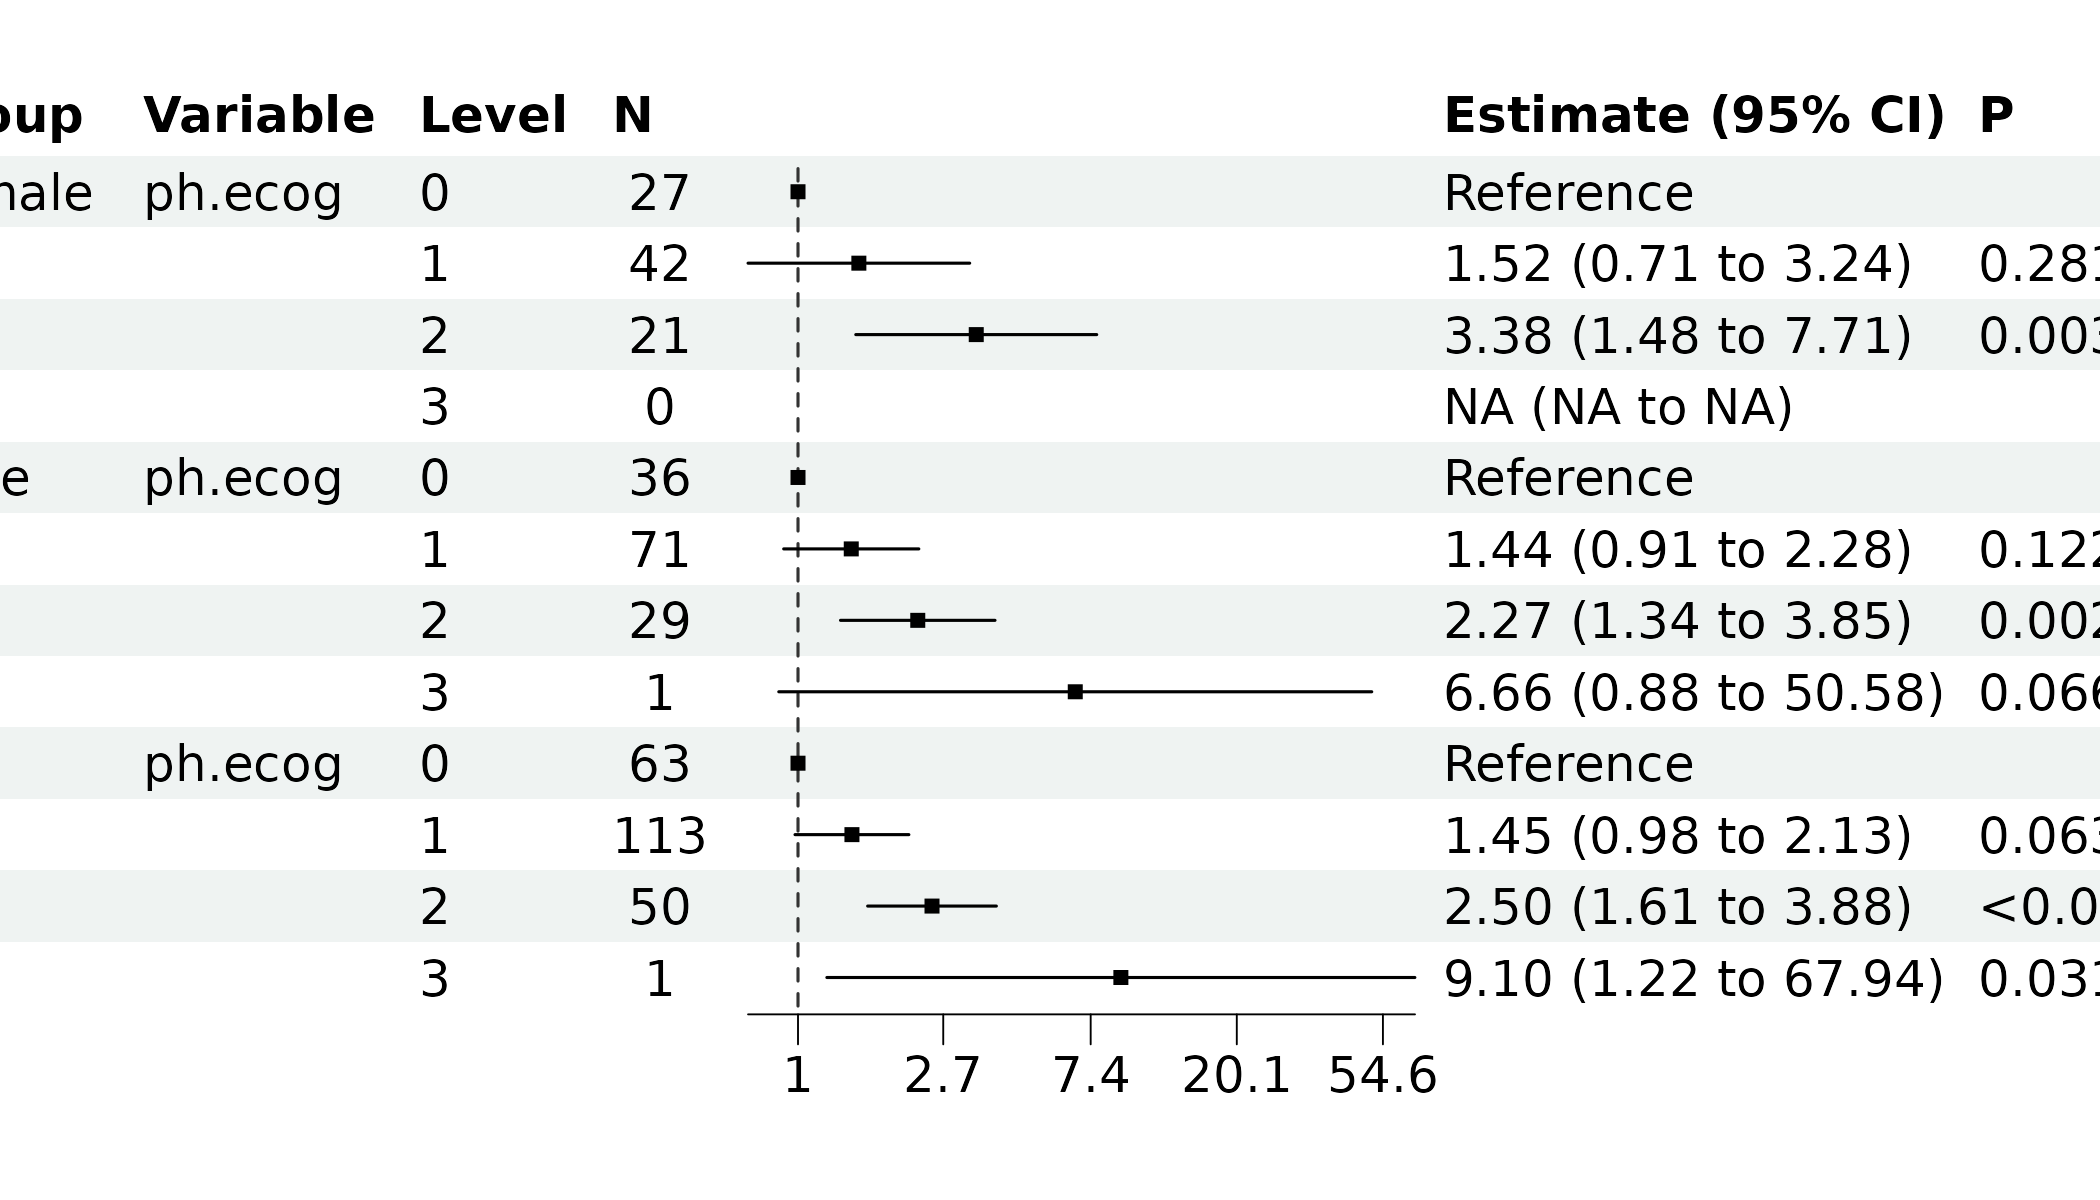
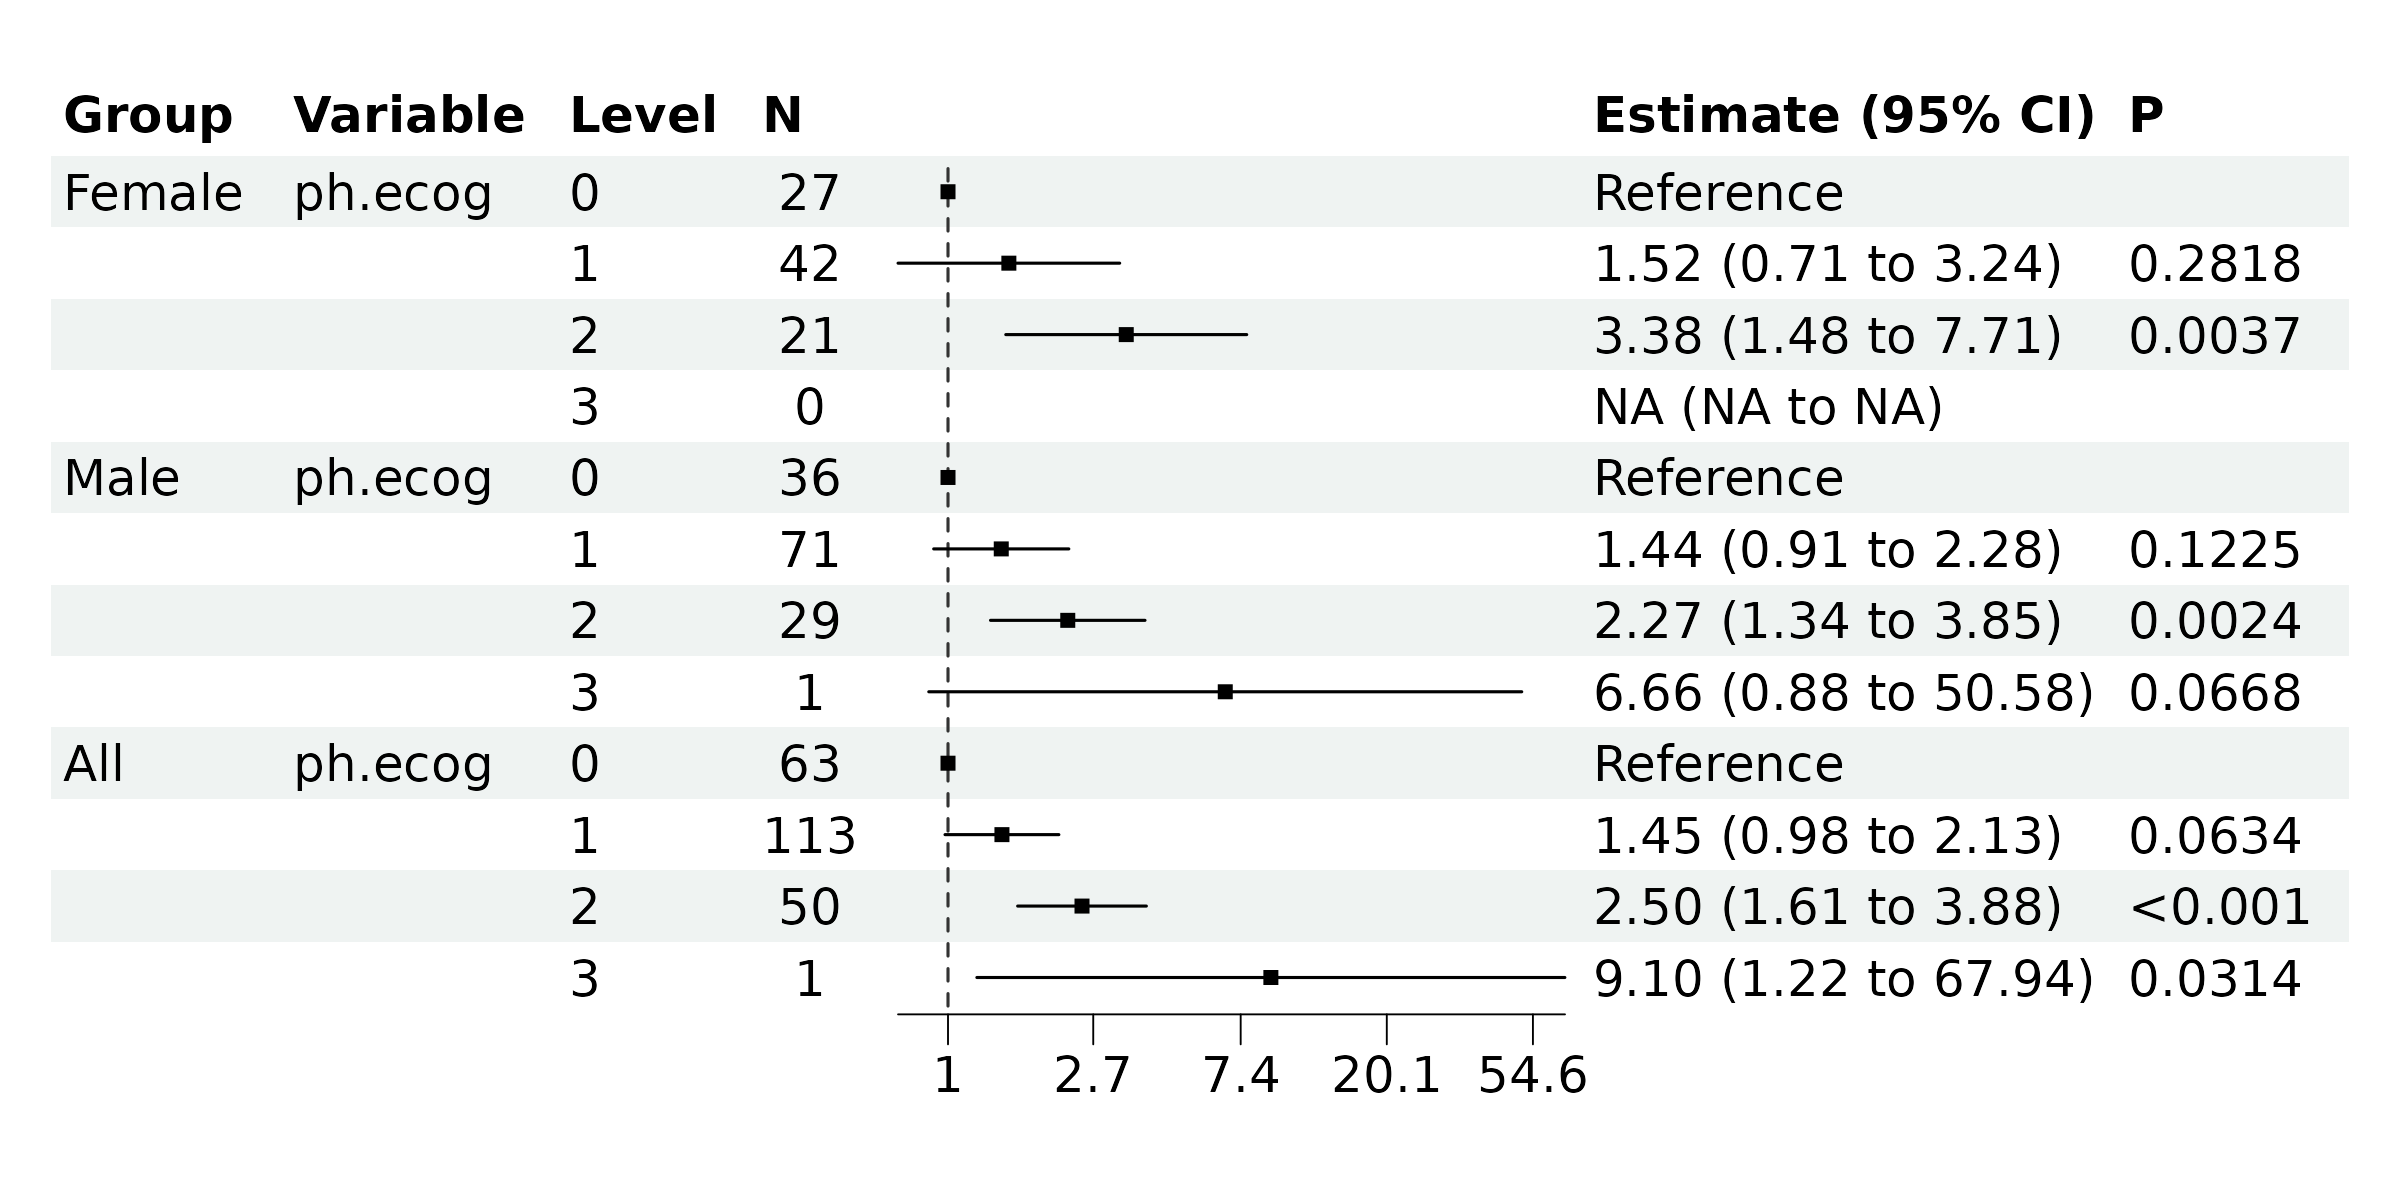
Deploying to gh-pages from @ WangLabCSU/bregr@1f3ad0c37b37e6aefe2e77c2a30d279814502f5b 🚀

diff --git a/articles/bregr-group-by.html b/articles/bregr-group-by.html
@@ -163,7 +163,7 @@ removing the second column of the table and eliminating the row with
 <p><img src="bregr-group-by_files/figure-html/show-forest2-1.png" width="100%"></p>
 <p>To subset the data rows, we can input an R expression using variables
 from <code>br_get_results(mds)</code>. For example, we can use
-<code>Group_variable == "2" &amp; variable == "ph.ecog" &amp; label == 3</code>
+<code>Group_variable == "Female" &amp; variable == "ph.ecog" &amp; label == 3</code>
 to locate the row we want to remove, and then use <code>!()</code> to
 select the negated rows.</p>
 <p>If drop <code>All</code> group is necessary, update the
@@ -172,7 +172,7 @@ select the negated rows.</p>
 <code class="sourceCode R"><span><span class="fu"><a href="../reference/br_show_forest.html">br_show_forest</a></span><span class="op">(</span></span>
 <span>  <span class="va">mds</span>,</span>
 <span>  drop <span class="op">=</span> <span class="fl">2</span>,</span>
-<span>  subset <span class="op">=</span> <span class="op">!</span><span class="op">(</span><span class="op">(</span><span class="va">Group_variable</span> <span class="op">==</span> <span class="st">"2"</span> <span class="op">&amp;</span> <span class="va">variable</span> <span class="op">==</span> <span class="st">"ph.ecog"</span> <span class="op">&amp;</span> <span class="va">label</span> <span class="op">==</span> <span class="fl">3</span><span class="op">)</span> <span class="op">|</span></span>
+<span>  subset <span class="op">=</span> <span class="op">!</span><span class="op">(</span><span class="op">(</span><span class="va">Group_variable</span> <span class="op">==</span> <span class="st">"Female"</span> <span class="op">&amp;</span> <span class="va">variable</span> <span class="op">==</span> <span class="st">"ph.ecog"</span> <span class="op">&amp;</span> <span class="va">label</span> <span class="op">==</span> <span class="fl">3</span><span class="op">)</span> <span class="op">|</span></span>
 <span>               <span class="op">(</span><span class="va">Group_variable</span> <span class="op">==</span> <span class="st">"All"</span><span class="op">)</span><span class="op">)</span><span class="op">)</span></span></code></pre></div>
 <p><img src="bregr-group-by_files/figure-html/show-forest-rm-all-1.png" width="100%"></p>
   </main><aside class="col-md-3"><nav id="toc" aria-label="Table of contents"><h2>On this page</h2>

diff --git a/index.html b/index.html
@@ -82,6 +82,7 @@
 <li>
 <strong>Focal predictors</strong> (<math display="inline" xmlns="http://www.w3.org/1998/Math/MathML"><semantics><msub><mi>x</mi><mn>1</mn></msub><annotation encoding="application/x-tex">x_1</annotation></semantics></math>, <math display="inline" xmlns="http://www.w3.org/1998/Math/MathML"><semantics><msub><mi>x</mi><mn>2</mn></msub><annotation encoding="application/x-tex">x_2</annotation></semantics></math>, …) or <strong>response variables</strong> (<math display="inline" xmlns="http://www.w3.org/1998/Math/MathML"><semantics><msub><mi>y</mi><mn>1</mn></msub><annotation encoding="application/x-tex">y_1</annotation></semantics></math>, <math display="inline" xmlns="http://www.w3.org/1998/Math/MathML"><semantics><msub><mi>y</mi><mn>2</mn></msub><annotation encoding="application/x-tex">y_2</annotation></semantics></math>, …) vary systematically.</li>
 </ul>
+<p>A simplified overview of batch regression modeling is given below for illustration:</p>
 <p align="center">
 <img src="reference/figures/breg_formula.svg"></p>
 </div>
